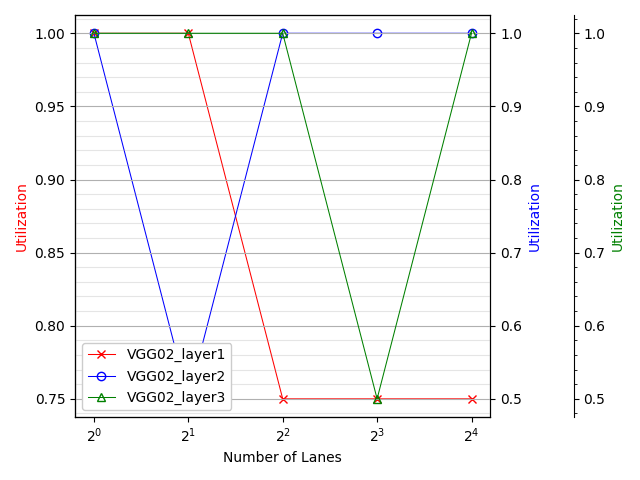
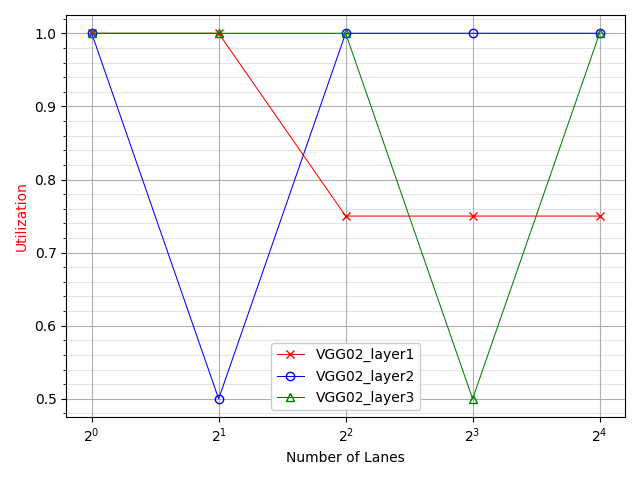
single scale graphs update

diff --git a/src/graphs.py b/src/graphs.py
@@ -62,6 +62,37 @@ def plot_triple_axis(xlist, ylist, xlabel, ylabel, legendlist, savename, xlog=Fa
     plt.savefig(savename)
     plt.close()    
 
+def plot_single_axis(xlist, ylist, xlabel, ylabel, legendlist, savename, xlog=False, ylog=False):
+    fig, host = plt.subplots()
+
+    host.set_xlabel(xlabel)
+    host.set_ylabel(ylabel)
+
+    p1, = host.plot(xlist, ylist[0], "rx-", label=legendlist[0],  linewidth=0.75, fillstyle='none')
+    p2, = host.plot(xlist, ylist[1], "bo-", label=legendlist[1],  linewidth=0.75, fillstyle='none')
+    p3, = host.plot(xlist, ylist[2], "g^-", label=legendlist[2],  linewidth=0.75, fillstyle='none')
+
+    lns = [p1, p2, p3]
+
+    host.yaxis.label.set_color(p1.get_color())
+
+    if ylog:
+        host.set_yscale('log', base=2)
+
+    if xlog:
+        plt.xscale('log', base=2)
+    
+    plt.grid()
+    plt.minorticks_on()
+    plt.grid(visible=True, which='minor', color='#999999', linestyle='-', alpha=0.25)
+
+    fig.tight_layout()
+
+    host.legend(handles=lns, loc='best', framealpha=1)
+
+    plt.savefig(savename)
+    plt.close()
+
 alex_list = ["AlexNet_layer1", "AlexNet_layer2","AlexNet_layer3"]
 vgg_list = ["VGG02_layer1", "VGG02_layer2", "VGG02_layer3"]
 problem_list = alex_list+vgg_list
@@ -95,27 +126,27 @@ plot_triple_axis(num_lanes_list, energy_list, "Number of Lanes", "Energy", alex_
 
 # Perf VGG
 perf_list = [tot_perf['VGG02_layer1'],tot_perf['VGG02_layer2'],tot_perf['VGG02_layer3']]
-plot_triple_axis(num_lanes_list, perf_list, "Number of Lanes", "Performance [GFLOP/J]", vgg_list, 'tex_final/fig/VGG_performance.png')
+plot_single_axis(num_lanes_list, perf_list, "Number of Lanes", "Performance [GFLOP/J]", vgg_list, 'tex_final/fig/VGG_performance.png')
 
 # Perf Alex
 perf_list = [tot_perf['AlexNet_layer1'],tot_perf['AlexNet_layer2'],tot_perf['AlexNet_layer3']]
-plot_triple_axis(num_lanes_list, perf_list, "Number of Lanes", "Performance [GFLOP/J]", alex_list, 'tex_final/fig/Alex_performance.png')
+plot_single_axis(num_lanes_list, perf_list, "Number of Lanes", "Performance [GFLOP/J]", alex_list, 'tex_final/fig/Alex_performance.png')
 
 # Cycles VGG
 perf_list = [tot_cycles['VGG02_layer1'],tot_cycles['VGG02_layer2'],tot_cycles['VGG02_layer3']]
-plot_triple_axis(num_lanes_list, perf_list, "Number of Lanes", "Cycles", vgg_list, 'tex_final/fig/VGG_cycles.png', True, True)
+plot_single_axis(num_lanes_list, perf_list, "Number of Lanes", "Cycles", vgg_list, 'tex_final/fig/VGG_cycles.png', True, True)
 
 # Cycles Alex
 perf_list = [tot_cycles['AlexNet_layer1'],tot_cycles['AlexNet_layer2'],tot_cycles['AlexNet_layer3']]
-plot_triple_axis(num_lanes_list, perf_list, "Number of Lanes", "Cycles", alex_list, 'tex_final/fig/Alex_cycles.png', True, True)
+plot_single_axis(num_lanes_list, perf_list, "Number of Lanes", "Cycles", alex_list, 'tex_final/fig/Alex_cycles.png', True, True)
 
 # Utilization VGG
 perf_list = [tot_util['VGG02_layer1'],tot_util['VGG02_layer2'],tot_util['VGG02_layer3']]
-plot_triple_axis(num_lanes_list, perf_list, "Number of Lanes", "Utilization", vgg_list, 'tex_final/fig/VGG_utilization.png', True)
+plot_single_axis(num_lanes_list, perf_list, "Number of Lanes", "Utilization", vgg_list, 'tex_final/fig/VGG_utilization.png', True)
 
 # Utilization Alex
 perf_list = [tot_util['AlexNet_layer1'],tot_util['AlexNet_layer2'],tot_util['AlexNet_layer3']]
-plot_triple_axis(num_lanes_list, perf_list, "Number of Lanes", "Utilization", alex_list, 'tex_final/fig/Alex_utilization.png', True)
+plot_single_axis(num_lanes_list, perf_list, "Number of Lanes", "Utilization", alex_list, 'tex_final/fig/Alex_utilization.png', True)
 
 style_list = ["rx--", "ro--", "r^--", "bx-", "bo-", "b^-"]
 
